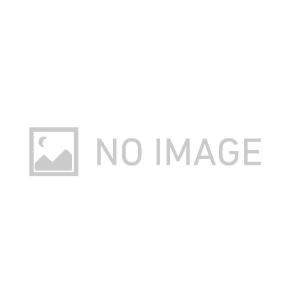
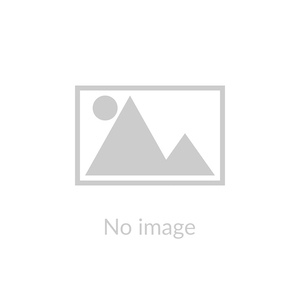
add

Changed region(s): [[0.09, 0.27, 0.87, 0.63], [0.33, 0.72, 0.66, 0.81]]

diff --git a/todo.md b/todo.md
@@ -10,6 +10,7 @@ DjangoMessageFrameworkの表示
 画像のinputタグにサムネイルを表示させる形式に仕立てる
 サマーノートのh1タグなどの装飾を個別にするか検討
 プロジェクト一覧表示時に作業難度、所要時間をもう少し見やすくシンプルに表現する。
+noimageの画像を実装
 
 
 ### システムのやること
